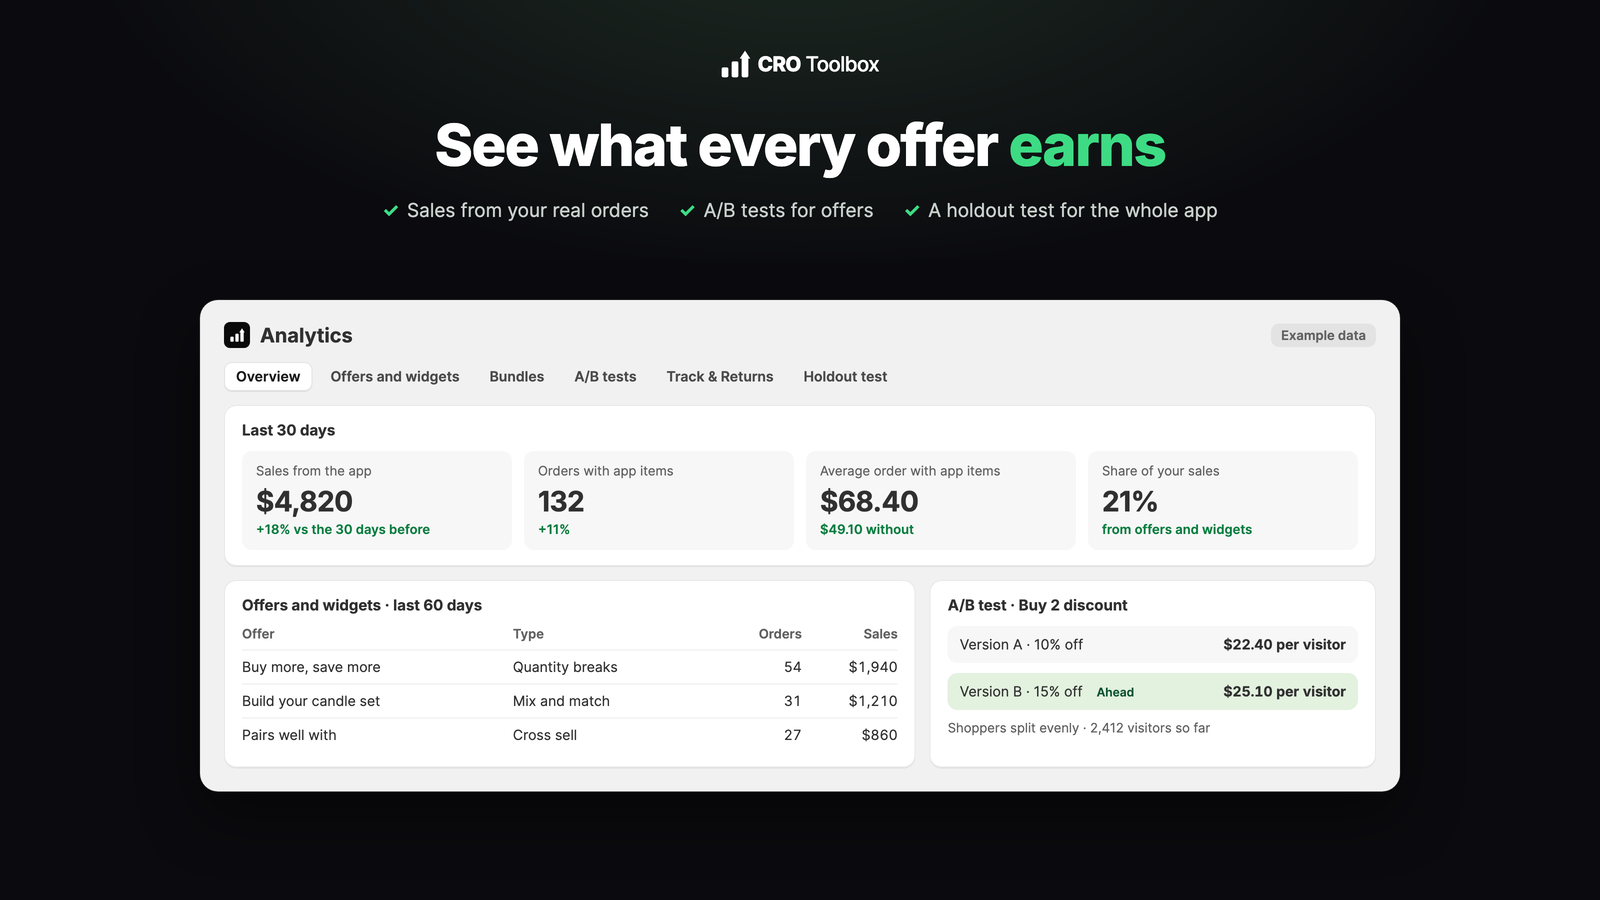
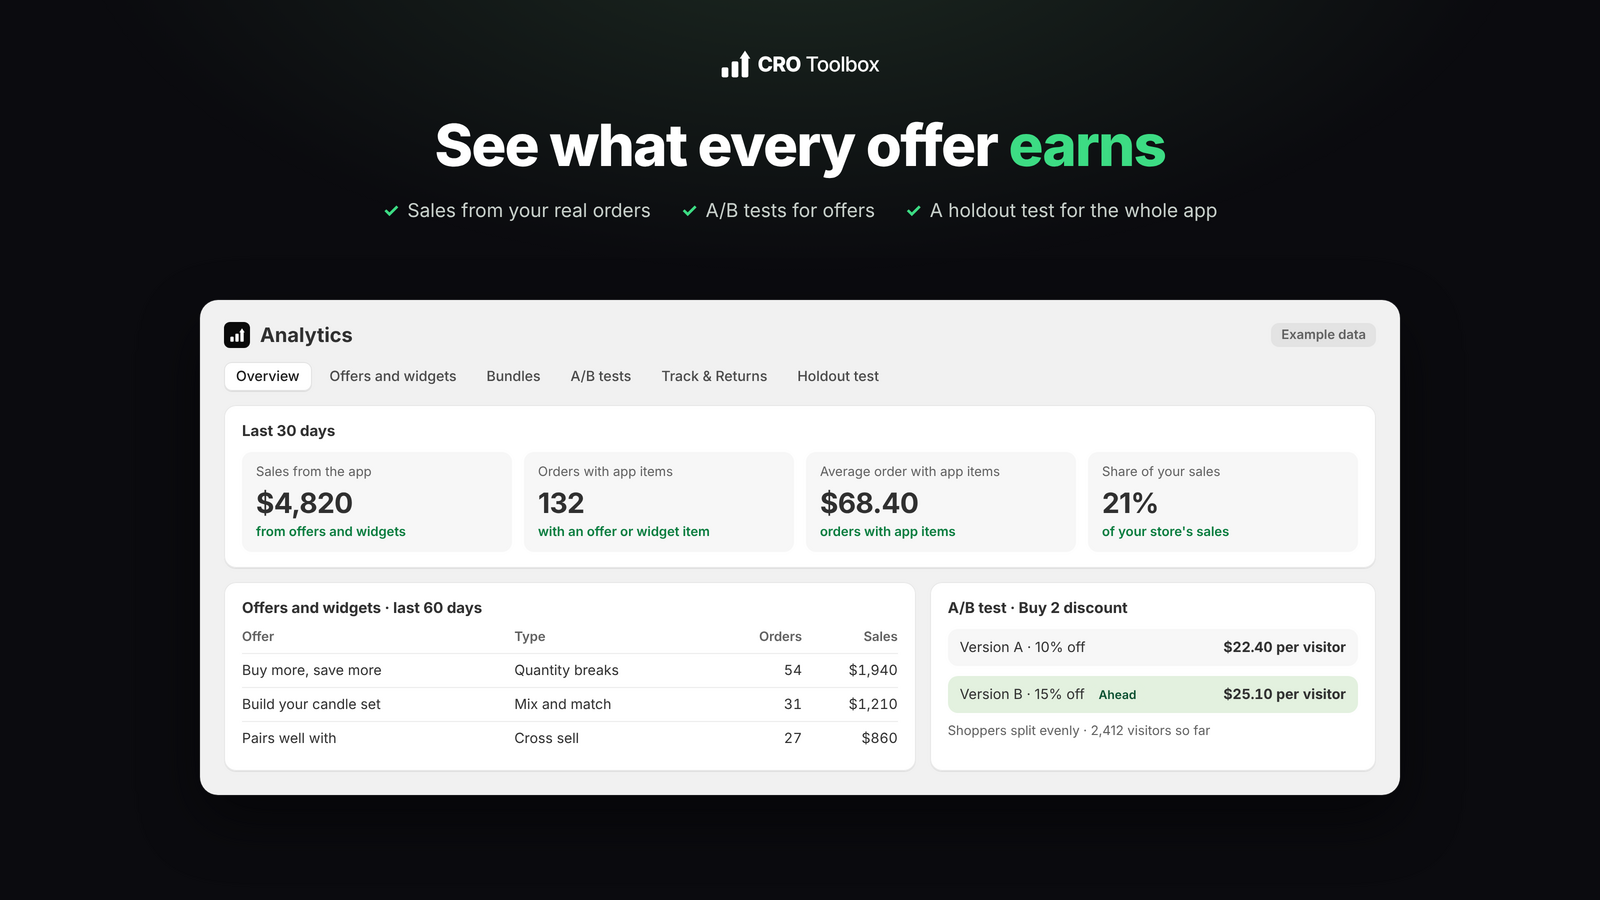
Listing: images follow App Store rules 4.3 and 5.1.4 (no "5+ apps", no review quote, no app name badge, no comparisons)
Feature image: new headline, Thank you page card instead of Reviews, thank you crop without
the demo's CRO Toolbox marks. Shot 3: FAQ instead of a customer review. Shot 6: Analytics
tiles without +18%, +11% and the without comparison. capture.sh takes an optional window width.

Claude-Session: https://claude.ai/code/session_01XorgbXgSM6MQJtx84JZamF

diff --git a/branding/listing/templates/feature.html b/branding/listing/templates/feature.html
@@ -1,6 +1,7 @@
 <!doctype html>
 <!-- Feature image (the big image at the top of the App Store listing): every area, left to right in the order a shopper meets them
-     (product page offers, product page sections, cart and loyalty, after the order). Render: scripts/listing/render.sh feature -->
+     (product page offers, thank you page and product page sections, cart and loyalty, after the order).
+     No numbers, reviews or app name badges inside the widgets (App Store rules 4.3.3, 4.3.4, 4.3.6, 5.1.4). Render: scripts/listing/render.sh feature -->
 <html><head><meta charset="utf-8"><link rel="stylesheet" href="../styles.css">
 <style>
   h1 { margin-top: 22px; }
@@ -14,10 +15,10 @@
 <body>
   <div class="top">
     <img class="logo" src="../logo.svg" alt="">
-    <h1>Replaces <span>5+ apps</span> with one</h1>
+    <h1>Your whole sales toolkit in <span>one app</span></h1>
     <div class="checks">
       <div><b>✓</b>Bundles, upsells and cross sells</div>
-      <div><b>✓</b>Reviews and store sections</div>
+      <div><b>✓</b>Store sections</div>
       <div><b>✓</b>Loyalty and rewards</div>
       <div><b>✓</b>Tracking and returns</div>
     </div>
@@ -29,7 +30,7 @@
       <div class="card"><span class="tag">Upsells</span><img src="../widgets/qty.png"></div>
     </div>
     <div class="col">
-      <div class="card"><span class="tag">Reviews</span><img src="../widgets/review.png"></div>
+      <div class="card"><span class="tag">Thank you page</span><img src="../widgets/thanks.png"></div>
       <div class="card thin"><span class="tag">Delivery estimate</span><img src="../widgets/delivery.png"></div>
       <div class="card thin"><span class="tag">Stock message</span><img src="../widgets/stock.png"></div>
       <div class="card thin"><span class="tag">Free shipping bar</span><img src="../widgets/ship.png"></div>

diff --git a/branding/listing/templates/shot-3-sections.html b/branding/listing/templates/shot-3-sections.html
@@ -5,11 +5,11 @@
   <div class="top">
     <img class="logo" src="../logo.svg" alt="">
     <h1>Ready made sections that <span>sell</span></h1>
-    <div class="checks"><div><b>✓</b>Reviews, FAQ, bars and timers</div><div><b>✓</b>Styles with a live preview</div><div><b>✓</b>No theme code</div></div>
+    <div class="checks"><div><b>✓</b>FAQ, bars and timers</div><div><b>✓</b>Styles with a live preview</div><div><b>✓</b>No theme code</div></div>
   </div>
 </body></html>
   <div class="card" style="left:190px; top:290px; width:1220px"><span class="tag">Benefits row</span><img src="../widgets/benefits.png"></div>
-  <div class="card" style="left:190px; top:490px; width:520px"><span class="tag">Customer reviews</span><img src="../widgets/review.png"></div>
+  <div class="card" style="left:190px; top:490px; width:520px"><span class="tag">FAQ</span><img src="../widgets/faq.png"></div>
   <div class="card thin" style="left:770px; top:490px; width:640px"><span class="tag">Delivery estimate</span><img src="../widgets/delivery.png"></div>
   <div class="card thin" style="left:770px; top:610px; width:640px"><span class="tag">Stock message</span><img src="../widgets/stock.png"></div>
   <div class="card thin" style="left:770px; top:730px; width:640px"><span class="tag">Free shipping bar</span><img src="../widgets/ship.png"></div>

diff --git a/branding/listing/templates/shot-6-analytics.html b/branding/listing/templates/shot-6-analytics.html
@@ -42,10 +42,10 @@
     <div class="panel">
       <h3>Last 30 days</h3>
       <div class="tiles">
-        <div class="tile"><small>Sales from the app</small><b>$4,820</b><i>+18% vs the 30 days before</i></div>
-        <div class="tile"><small>Orders with app items</small><b>132</b><i>+11%</i></div>
-        <div class="tile"><small>Average order with app items</small><b>$68.40</b><i>$49.10 without</i></div>
-        <div class="tile"><small>Share of your sales</small><b>21%</b><i>from offers and widgets</i></div>
+        <div class="tile"><small>Sales from the app</small><b>$4,820</b><i>from offers and widgets</i></div>
+        <div class="tile"><small>Orders with app items</small><b>132</b><i>with an offer or widget item</i></div>
+        <div class="tile"><small>Average order with app items</small><b>$68.40</b><i>orders with app items</i></div>
+        <div class="tile"><small>Share of your sales</small><b>21%</b><i>of your store's sales</i></div>
       </div>
     </div>
     <div class="row2">

diff --git a/branding/listing/README.md b/branding/listing/README.md
@@ -70,11 +70,20 @@ script and pass it as `CHROME`).
   products (`demos/IMAGES.md`). The Analytics one is drawn like the app's Analytics page with example numbers and says
   "Example data". The feature image was rendered again with the same products.
 
+- 2026-10-27 (rules pass, App Store requirements 4.3.3, 4.3.4, 4.3.6 and 5.1.4): the feature image headline no longer
+  says "5+ apps" (a number) but "Your whole sales toolkit in one app"; its Reviews card and shot 3's customer review
+  (a quote could read as a testimonial) are replaced by the Thank you page and an FAQ; the thank you crop is taken
+  without the demo's green "CRO Toolbox" marks (the real extension never shows the app name to buyers); the Analytics
+  tiles in shot 6 no longer show comparisons (+18%, +11%, "$49.10 without"). "One click offer after purchase" in
+  shot 1 stays: the app has a real `checkout_post_purchase` extension (`extensions/cro-post-purchase`).
+  Feature image alt text: "Bundles, upsells, thank you page, delivery estimate, stock message, free shipping bar,
+  cross sells, loyalty, order tracking and returns".
+
 ## Alt text for the 2026-10-27 screenshots
 
 1. `shot-1-offers.png`: "Frequently bought together, quantity breaks and cart offers"
 2. `shot-2-loyalty.png`: "The rewards panel with ways to earn points and rewards to spend them on"
-3. `shot-3-sections.png`: "Benefits row, customer reviews, a delivery estimate, a stock message and a free shipping bar"
+3. `shot-3-sections.png`: "Benefits row, an FAQ, a delivery estimate, a stock message and a free shipping bar"
 4. `shot-4-tracking.png`: "Track order page on its way and delivered, with a next order code and a review link"
 5. `shot-5-returns.png`: "Returns page offering store credit with a bonus, a refund or an exchange"
 6. `shot-6-analytics.png`: "Analytics page with sales from the app, offer results and an A/B test"
